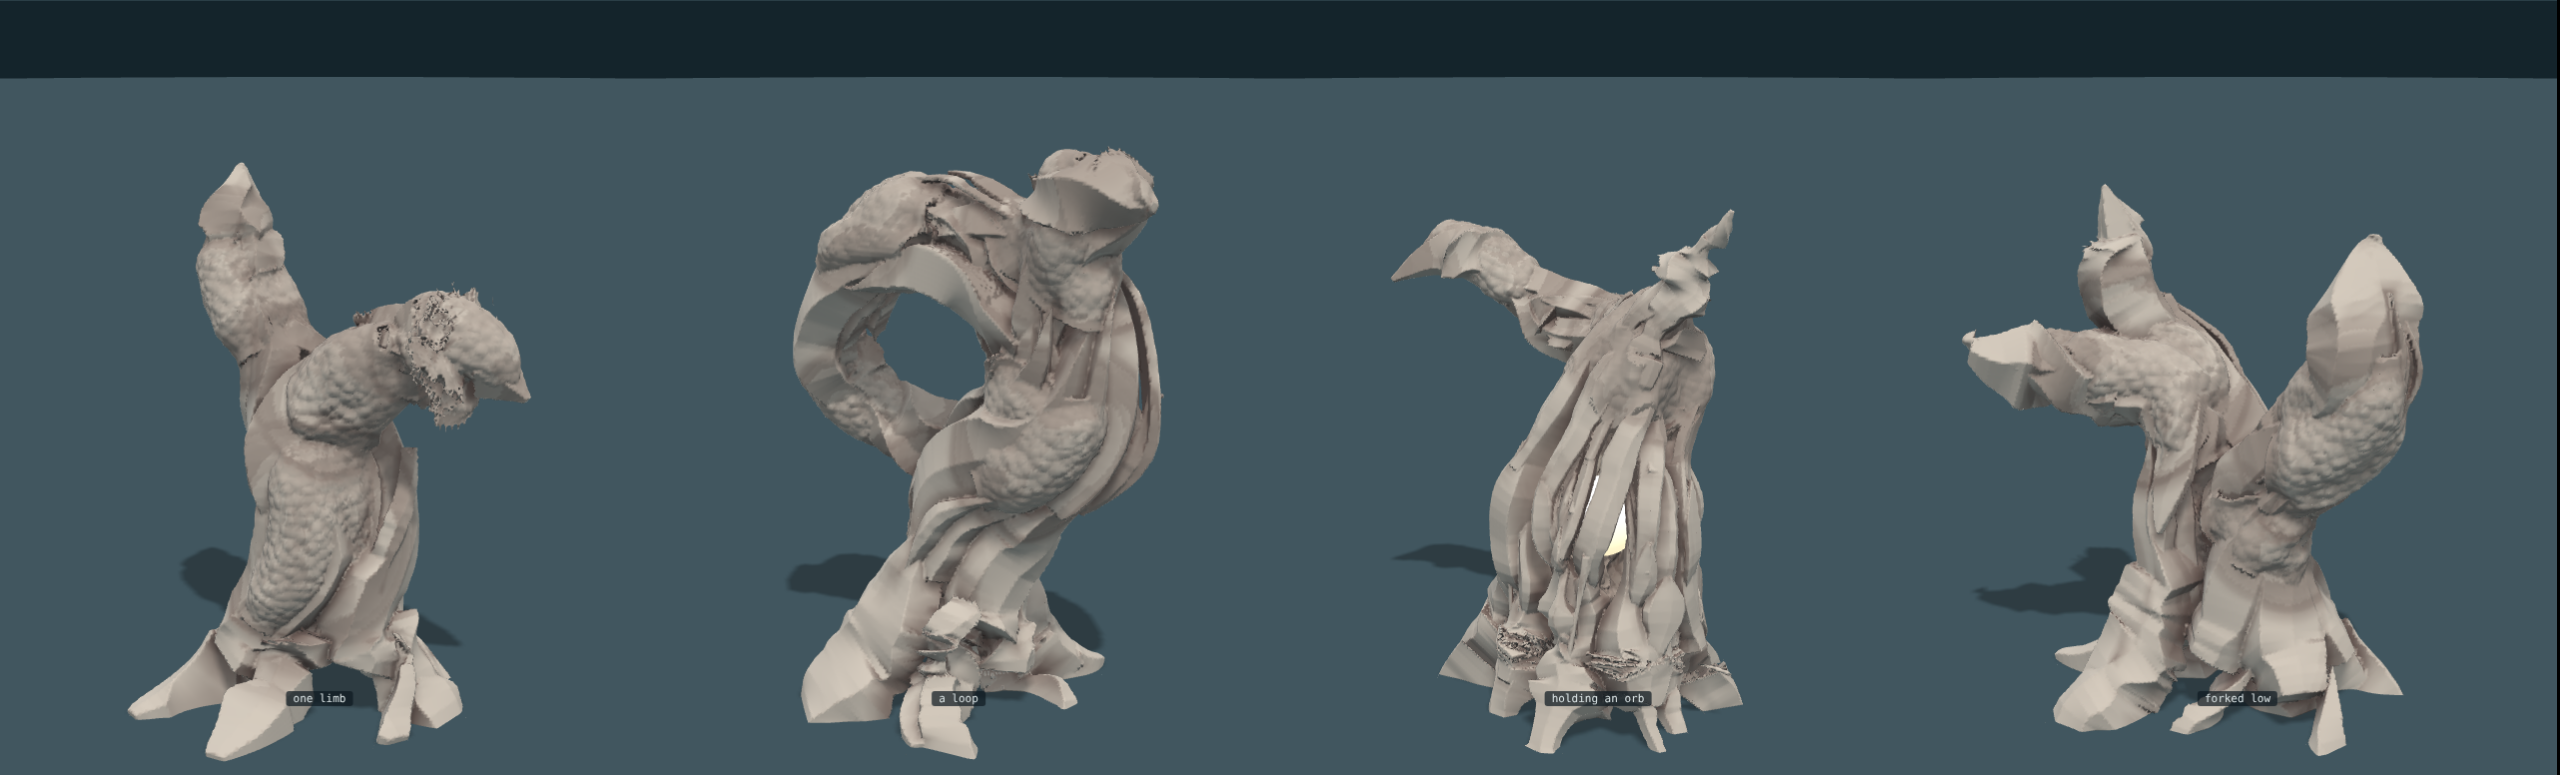
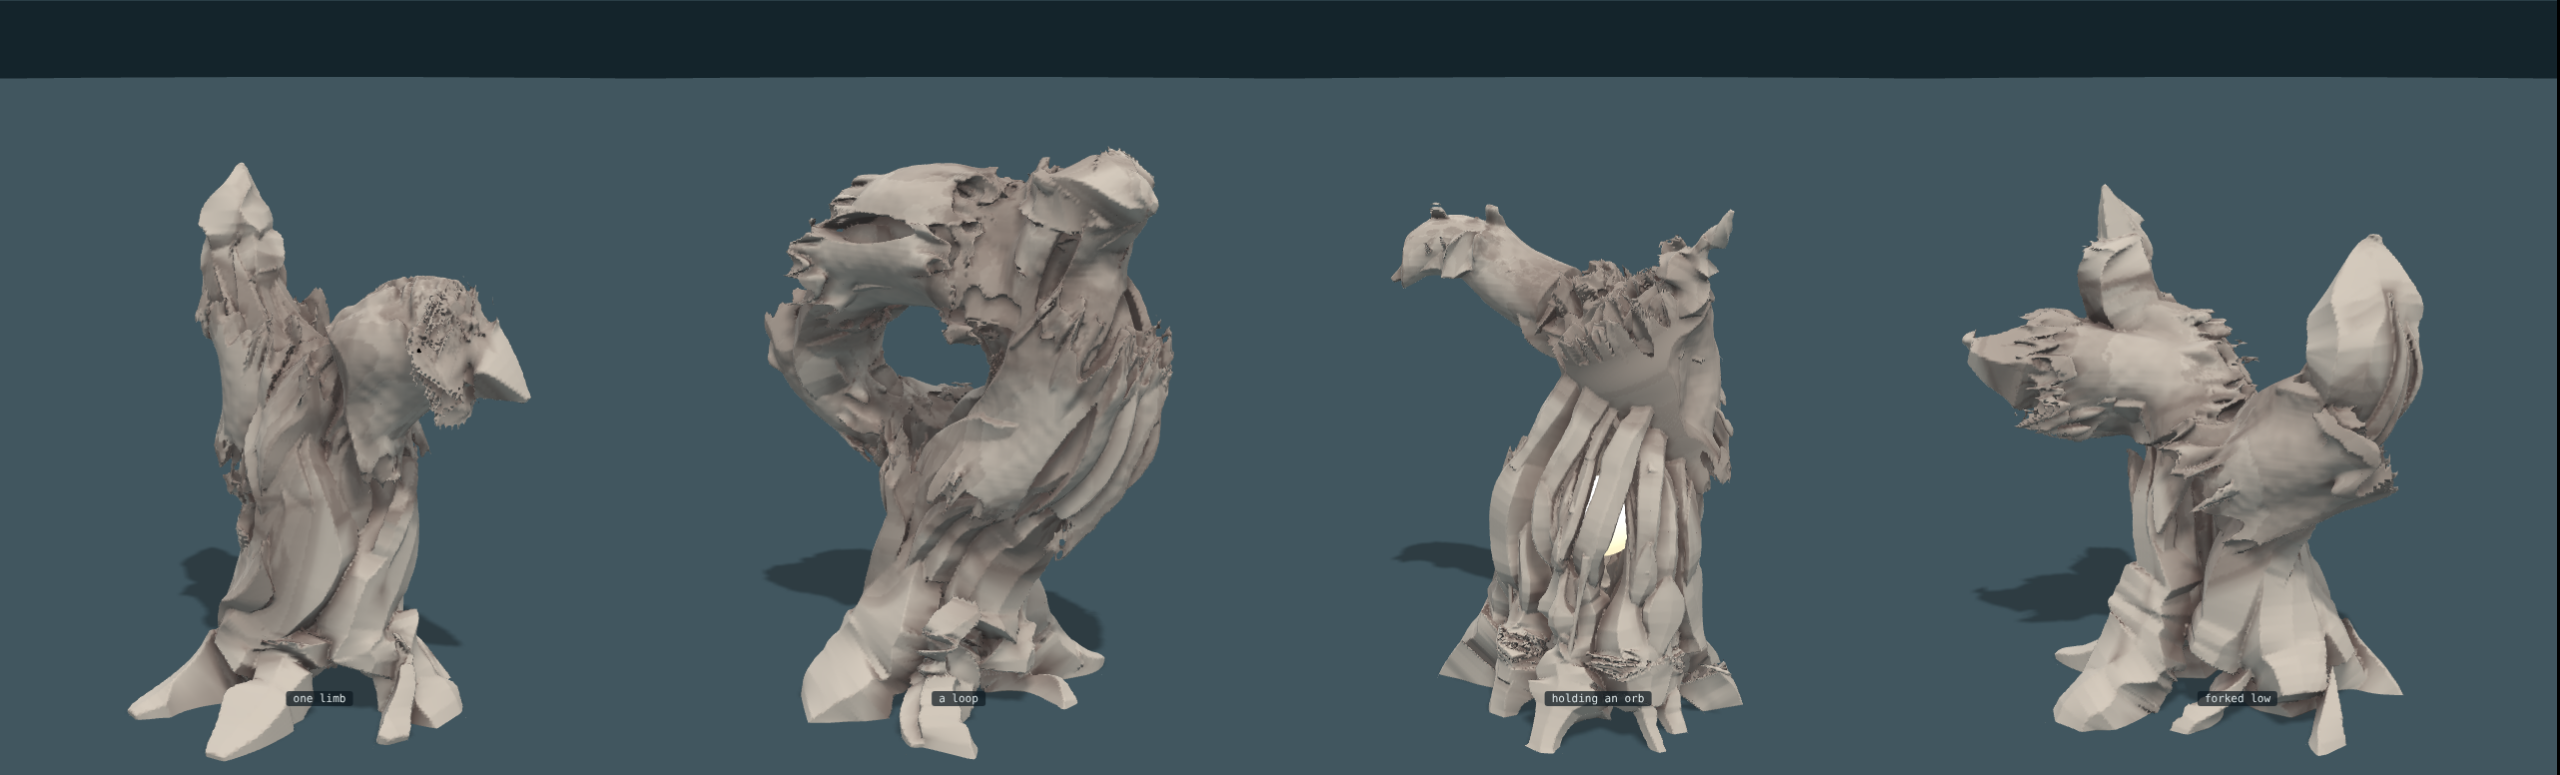
Trees: torn bark sheets, pictures and log; tissue shells withdrawn
Claude-Session: https://claude.ai/code/session_0192rgp75jGkttZXf7hEakip

diff --git a/LOG.md b/LOG.md
@@ -2126,3 +2126,45 @@ Wrong, or not there:
 - A sheet's edge is a soft fade into the wood. A sheet of tissue would
   have an edge: a lip, a tear.
 - The orb tree has three sheets and none near the orb.
+
+**Tortoise shells.** Said of the tissue sheets, with four photographs of
+thin pale bark coming off trunks: "It feels as though you're slapping
+tortoise shells on it. The bark patches need to feel shredded and torn at
+the edges." Kept as `sketch/page7-bark-tissue-shells-withdrawn.png`.
+
+Read off the photographs, as geometry: the bark is a thin flat sheet of
+one thickness right up to where it stops, so its edge is a cliff; its
+ends are torn along the grain into pointed tongues of unlike length while
+its sides run straighter; it has split open in long tears pointed at both
+ends, with the wood showing in them; at torn ends it stands off the wood;
+its face is nearly smooth.
+
+Rebuilt on that:
+
+- One thickness (0.026 to 0.034) to the edge. No fade.
+- Strips. Which strip a place belongs to depends only on where it lies
+  across the grain, and each strip ends where it happens to, each end
+  torn separately. So the two ends of a sheet are tongues.
+- On about half the strips, toward the torn end, the whole thickness
+  stands off the wood, with a gap under it.
+- Seven sheets in ten have one long tear along the grain.
+- The lumps are gone. A slight directionless unevenness is left (0.004).
+
+`sketch/page7.png`, `sketch/page7-bark-close.png`. Two to five sheets a
+tree.
+
+What it does: the sheets read as skin coming away in shreds, not as
+shells. Ends are fringed with tongues; some stand off.
+
+Wrong, or not there:
+
+- Over-shredded. The fringe is many thin spikes of similar size. The
+  photographs have fewer, broader tongues and long clean runs of edge
+  between them.
+- The edge does not read as a cliff. The tongues are so thin that their
+  thickness cannot be seen, and it looks like torn cloth or hide.
+- The sheets are large and smooth, and where one wraps a limb it hides
+  the strands entirely: the limb becomes a smooth sleeve.
+- The long tears cannot be found in the pictures.
+- The loop tree has a ragged hole where a sheet crosses the inside of
+  the loop.
